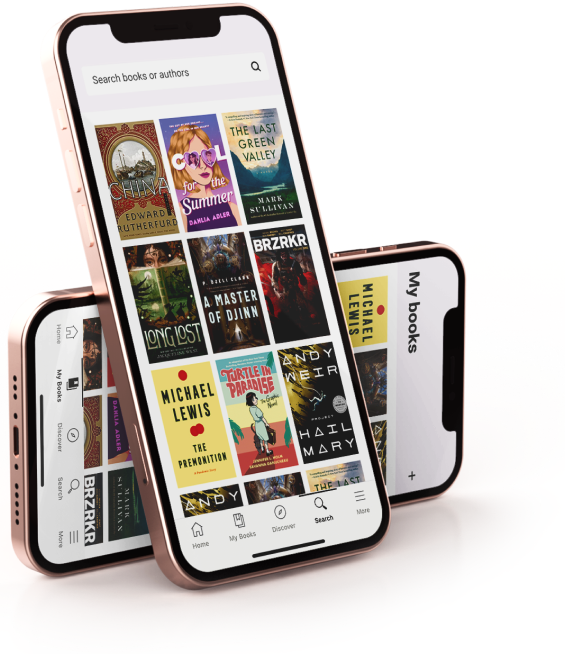
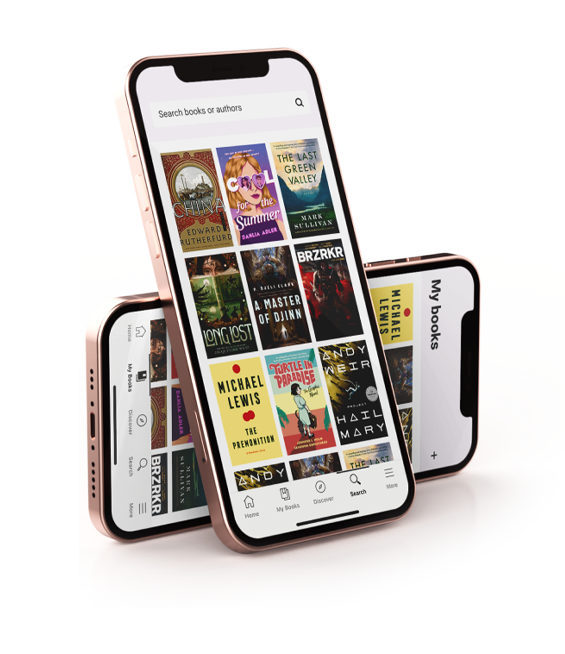
added flex to books text and aligned promotion content

diff --git a/index.html b/index.html
@@ -32,7 +32,7 @@
 	</section>
 
 	<section class="popular-books">
-		<div>
+		<div class="books-text-container">
 			<h2>Popular books</h2>
 			<a href="#">Browse all</a>
 		</div>
@@ -59,22 +59,21 @@
 	</section>
 
 	<section class="promotion">
+		<div class="promotion-img-holder">
+			<img src="assets/iphone.png" alt="" class="promotion-img">
+		</div>
 		<div>
-			<h2>Always with you.</h2>
-			<h2>Ready to help you.</h2>
+			<h2>Always with you.<br>Ready to help you.</h2>
 			<p>With our app you can scan books on the go, see what your friends are reading, and more.</p>
 			<div>
 				<button class="badge">Google</button>
 				<button class="badge">Apple</button>
 			</div>
 		</div>
-		<div class="promotion-img">
-			<img src="assets/iphone.png" alt="">
-		</div>
 	</section>
 
 	<section class="newly-released">
-		<div>
+		<div class="books-text-container">
 			<h2>Newley released</h2>
 			<a href="#">Browse all</a>
 		</div>

diff --git a/style.css b/style.css
@@ -47,6 +47,12 @@ header {
 	height: auto;
 }
 
+.books-text-container {
+	display: flex;
+	justify-content: space-between;
+	align-items: center;
+}
+
 .books {
 	width: 100%;
 	height: auto;
@@ -57,6 +63,18 @@ header {
 	background-color: #F9F1FA;
 
 	display: flex;
+	flex-direction: column;
+	justify-content: center;
+	text-align: center;
+}
+
+.promotion-img-holder {
+	display: flex;
+	justify-content: center;
+}
+
+.promotion-img {
+	width: 80%;
 }
 
 /* FAQ */
